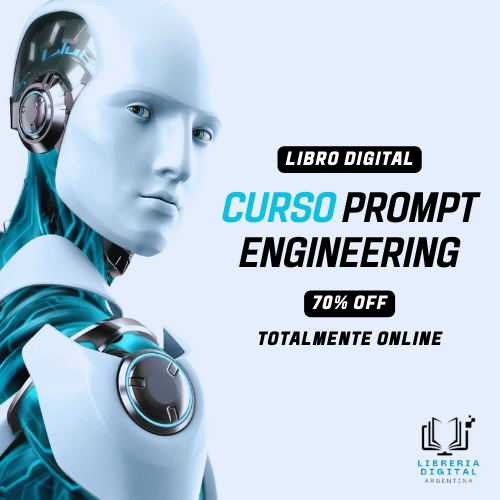
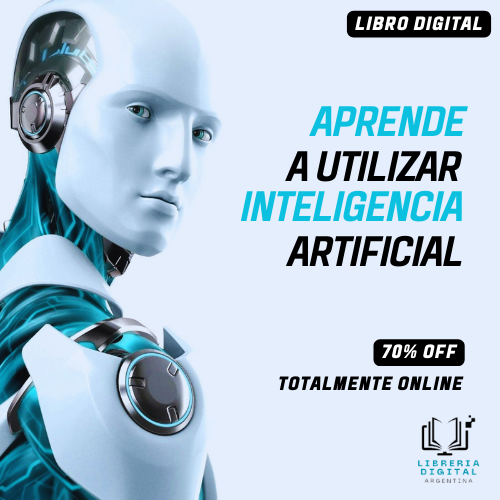
Se actualizo los textos de las secciones de la pág

Changed region(s): [[0.42, 0.21, 0.96, 0.54], [0.51, 0.57, 0.93, 0.78], [0.69, 0.0, 0.99, 0.09]]

diff --git a/index.html b/index.html
@@ -141,7 +141,7 @@ height="0" width="0" style="display:none;visibility:hidden"></iframe></noscript>
       <div class="row py-5">
         <div class="col-md-10">
           <h1 class="mb-3"><b>Curso de Prompt Engineering</b></h1>
-          <p class="" style="font-size:30px;"> Este curso está diseñado para personas interesadas en adentrarse en el mundo de Prompt Engineering, sin importar su nivel de experiencia previa en el campo. Ya seas un principiante curioso o alguien con conocimientos previos en ingeniería, este curso te brindará las herramientas necesarias para comprender y aplicar conceptos de Prompt Engineering de manera efectiva.</p>
+          <p class="" style="font-size:30px;"> ¡Te presentamos un curso pensado para aquellos que quieren descubrir Prompt Engineering sin importar su experiencia previa! Este curso te proporcionará las herramientas que necesitas para entender y utilizar los conceptos de este curso de una manera práctica y efectiva.</p>
           <p class=" mt-1 font-weight-light mt-4"  style="font-size:20px;" > ✅ Dirigido a todo público. No requiere conocimientos previos. </p>
         </div>
       </div>
@@ -152,7 +152,7 @@ height="0" width="0" style="display:none;visibility:hidden"></iframe></noscript>
       <div class="col-md-10  ">
         <h1 style="font-size:37px; " class=" t"><b>El futuro es ahora</b></h1>
         <p class=" lead " style="font-size:%;"> 
-          La Prompt Engineering se esfuerza por decodificar la intención detrás de tus instrucciones. Mediante este libro digital, tendrás la oportunidad de adquirir conocimientos y aplicar de manera efectiva los fundamentos y métodos de esta innovadora práctica en ingeniería.</p>
+          Prompt Engineering, aprende como mejorar la comunicación con las IAs! Nuestro libro digital te sumergirá en la oportunidad de aprender y aplicar de manera efectiva los conceptos básicos de como es el lenguaje humano-maquina y como sacarle provecho en nuestras tareas diarias.</p>
       </div>
     </div>
   </div>
@@ -170,14 +170,15 @@ height="0" width="0" style="display:none;visibility:hidden"></iframe></noscript>
           <div class="  text-left px-3 ">
                <h1 class="text-center mt-md-5 mt-3" style="color:#718aff;"><b>¿Qué es el Prompt Engineering?</b></h1>
                 <p class="  mt-3 " style="font-size:20px;" > 
-                  El Prompt Engineering es un enfoque ingenieril avanzado que se basa en la comprensión y manipulación de modelos de lenguaje para generar resultados específicos y deseados.  <b>¡Sus principios se pueden aplicar a cualquier persona!</b>  A través de la interacción con estos modelos, se busca aprovechar su capacidad para generar texto coherente y relevante para resolver una amplia gama de tareas y problemas. El Prompt Engineering implica formular instrucciones y preguntas precisas para obtener respuestas y resultados específicos mediante el modelado del lenguaje. Este enfoque ha encontrado aplicaciones en la generación de contenido, la programación asistida por lenguaje, la resolución de problemas y más. 
+                  El Prompt Engineering es una emocionante forma de trabajar con la tecnología y la información. Se trata de entender cómo las personas se comunican con las computadoras y cómo las computadoras nos comprenden. Comprender esta comunicación te va a ayudar en muchas áreas, como hacer búsquedas en internet de manera más eficiente, crear programas y aplicaciones que sean más fáciles de usar, y muchas otras cosas emocionantes que ni siquiera podemos imaginar todavía. 
+ 
                   <br><br>  
                        <hr>
                                    <h1 class="text-center   mt-5" style="color:#718aff;"><b>Beneficios</b></h1>
 
               <b> <span class=""  style="font-size:20px;"> 
                     
-Potencia tu creatividad y eficiencia con el Prompt Engineering. Automatiza tareas, genera soluciones y prototipos rápidos, y reduce errores humanos. Desde programación hasta generación de ideas, descubre cómo este enfoque basado en modelos de lenguaje revoluciona la interacción humano-máquina. Aprovecha sus beneficios para una comunicación más efectiva, exploración de datos y avances en la inteligencia artificial. Desbloquea todo el potencial del Prompt Engineering en tus proyectos. </span></b>
+                Potencia tu creatividad y eficiencia con el Prompt Engineering. Automatiza tareas, genera soluciones y prototipos rápidos, y reduce errores humanos. Desde programación hasta generación de ideas, descubre cómo este enfoque basado en modelos de lenguaje revoluciona la interacción humano-máquina. Aprovecha sus beneficios para una comunicación más efectiva, exploración de datos y avances en la inteligencia artificial. Desbloquea todo el potencial del Prompt Engineering en tus proyectos. </span></b>
             </p>
                 
 
